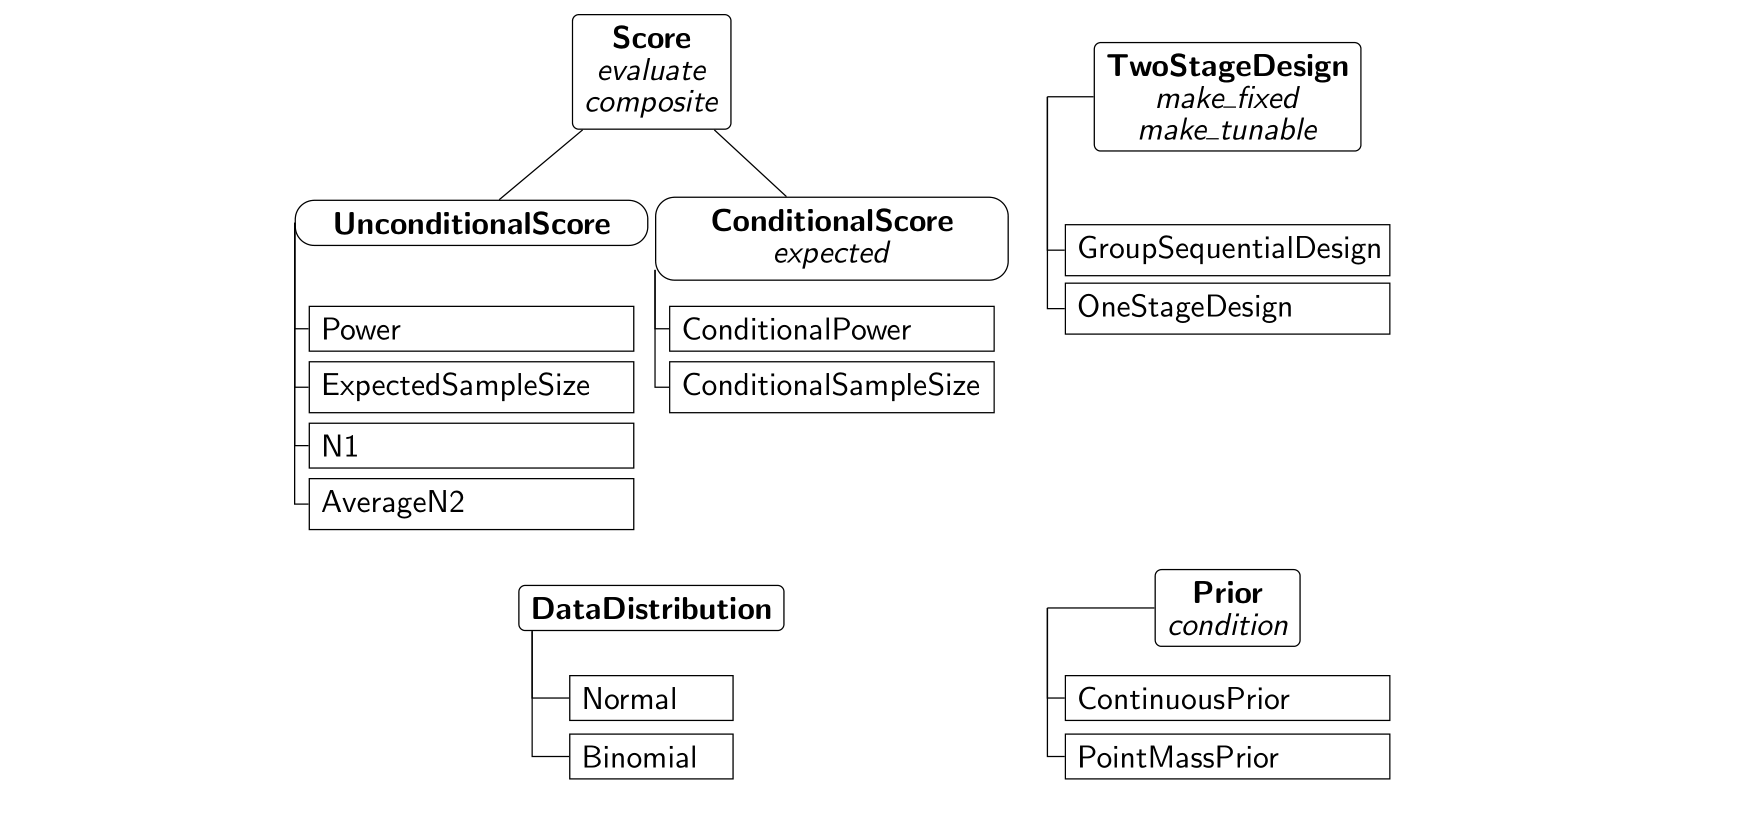
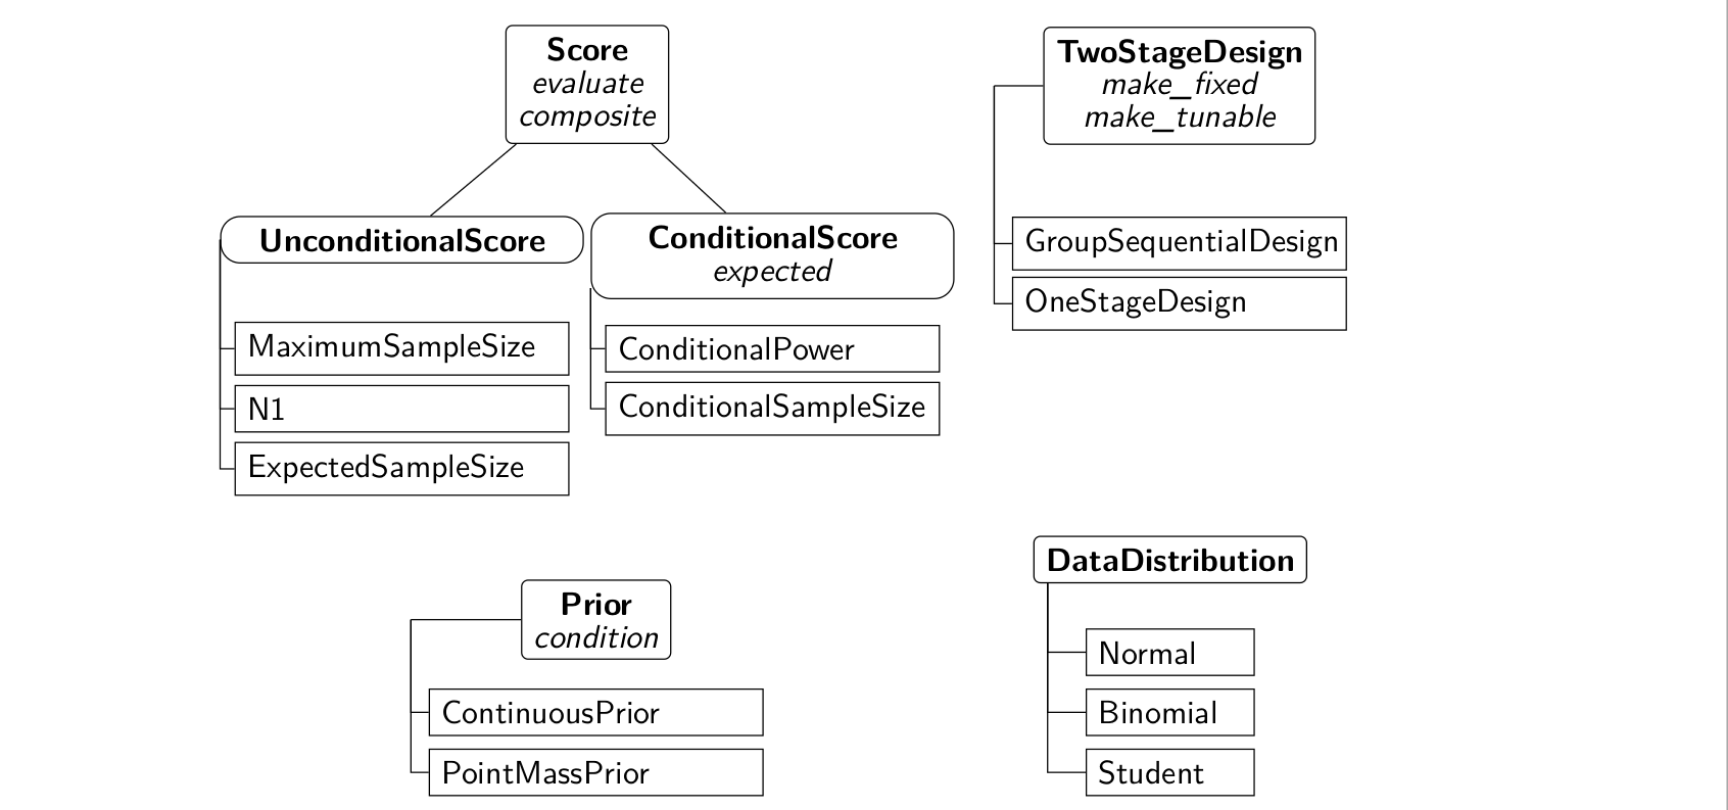
Built site for adoptr: 0.4.2.9000@9309098

diff --git a/articles/adoptr_jss.html b/articles/adoptr_jss.html
@@ -134,7 +134,7 @@
       University of Heidelberg<br><a class="author_email" href="mailto:#"></a><a href="mailto:meinhard.kieser@imbi.uni-heidelberg.de" class="email">meinhard.kieser@imbi.uni-heidelberg.de</a>
       </address>
                   
-            <h4 class="date">2021-05-26</h4>
+            <h4 class="date">2021-05-28</h4>
       
       <small class="dont-index">Source: <a href="https://github.com/kkmann/adoptr/blob/master/vignettes/adoptr_jss.Rmd"><code>vignettes/adoptr_jss.Rmd</code></a></small>
       <div class="hidden name"><code>adoptr_jss.Rmd</code></div>
@@ -151,7 +151,7 @@
 <div id="background" class="section level1">
 <h1 class="hasAnchor">
 <a href="#background" class="anchor"></a>Background</h1>
-<p>Confirmatory clinical trials are conducted in a strictly regulated environment. A key quality criterion put forward by the relevant agencies (<span class="citation">US Food and Drug Administration and others (2010)</span>, <span class="citation">Committee for Medicinal Products for Human Use and others (2007)</span>) for a study that is supposed to provide evidence for the regulatory acceptance of a new drug or treatment is strict type one error rate control. This requirement was often seen as conflicting with the perceived need to make trials more flexible by, e.g., early stopping for futility, group-sequential enrollment, or even adaptive sample size recalculation. An excellent historical review of the development of the field of adaptive clinical trial designs and the struggles along the way is given in <span class="citation">Bauer et al. (2015)</span>.</p>
+<p>Confirmatory clinical trials are conducted in a strictly regulated environment. A key quality criterion put forward by the relevant agencies (<span class="citation">US Food and Drug Administration and others (2019)</span>, <span class="citation">Committee for Medicinal Products for Human Use and others (2007)</span>) for a study that is supposed to provide evidence for the regulatory acceptance of a new drug or treatment is strict type one error rate control. This requirement was often seen as conflicting with the perceived need to make trials more flexible by, e.g., early stopping for futility, group-sequential enrollment, or even adaptive sample size recalculation. An excellent historical review of the development of the field of adaptive clinical trial designs and the struggles along the way is given in <span class="citation">Bauer et al. (2015)</span>.</p>
 <p>In this manuscript, the focus lies exclusively on adaptive two-stage designs with one unblinded interim analysis. Both early stopping for futility and efficacy are allowed and the final sample size as well as the critical value to reject the null hypothesis is chosen in a data-driven way. There is a plethora of methods for modifying the design of an ongoing trial based on interim results without compromising type one error rate control <span class="citation">(Bauer et al. 2015)</span> but the criteria for deciding <em>which</em> adaptation should be performed during an interim analysis and <em>when</em> to perform the interim analysis are still widely based on heuristics. Bauer <em>et al.</em> mention this issue of guiding adaptive decisions at interim in a principled (i.e., ‘optimal’) way by stating that ‘[t]he question might arise if potential decisions made at interim stages might not be better placed to the upfront planning stage.’ Following <span class="citation">Mehta and Pocock (2011)</span>, <span class="citation">Jennison and Turnbull (2015)</span> developed a principle approach to optimal interim sample size modifications, i.e., to conduct the interim decision (conditional on interim results) such that it optimizes an unconditional performance score. Their approach, however, was still restricted unnecessarily. Recently, <span class="citation">Pilz et al. (2019)</span> extended the work to a fully general variational problem where the optimization problem for any given performance score (optionally under further constraints) is solved over both the sample size adaptation function and the critical value function and the time point of the interim decision simultaneously. This approach is an application of ideas which have been put forward in single-arm trials with binary endpoint for several years (<span class="citation">Englert and Kieser (2013)</span>, <span class="citation">Kunzmann and Kieser (2016)</span>, <span class="citation">Kunzmann and Kieser (2020)</span>) to a setting with continuous test statistics. Clearly, by relaxing the problem to continuous sample sizes and test statistics, the theory becomes much more tractable, and important connections between conditional and unconditional optimality can be discussed much easier <span class="citation">(Pilz et al. 2019)</span>.</p>
 <p>A key insight from this recent development is the fact that the true challenge in designing an adaptive trial is less the technical methodology for controlling the type one error rate but rather the choice of the optimality criterion. This issue is much less pressing in single-stage designs since most sensible criteria will be equivalent to minimizing the overall sample size. Thus, in this case, a ‘design’ is often completely specified by given power and type one error rate constraints. For the more complex adaptive designs, however, there are much more sensible criteria (minimize maximal sample size, expected sample size, expected costs, etc.) and the balance between conditional and unconditional properties must be explicitly specified (cf. Section <a href="#sec:Examples">6</a>). This added complexity might be seen as daunting by practitioners, but it is also a chance for tailoring adaptive designs more specifically to a particular situation. The <strong>R</strong>-package <span class="citation">(R Core Team 2019)</span> <strong>adoptr</strong> aims at providing a simple yet customizable interface to specifying a broad class of objective functions and constraints for single- or two-arm, one- or two-stage designs with approximately normally distributed endpoints. The goal of <strong>adoptr</strong> is to enable relatively easy experimentation with different notions of optimality to shift the focus from <em>how</em> to optimize to <em>what</em> to optimize.</p>
 <p>In the following, we first give a definition of the problem setting addressed in <strong>adoptr</strong> and the technicalities of translating the underlying variational problem to a simple multivariate optimization problem before motivating the need for an <strong>R</strong>-package. We then present the core functionality of <strong>adoptr</strong> before addressing the issue of facilitating validation of open-source software in a regulated environment and discussing potential future work on <strong>adoptr</strong>.</p>
@@ -211,9 +211,9 @@
 <h1 class="hasAnchor">
 <a href="#sec:structure" class="anchor"></a>Adoptr’s structure</h1>
 <p>The package <strong>adoptr</strong> is based on <strong>R</strong>’s S4 class system. This allows to use multiple dispatch on the classes of multiple arguments to a method. In this section, the central components of <strong>adoptr</strong> are described briefly. Figure @ref(fig:class-diagram) gives a structural overview of the main classes in <strong>adoptr</strong>.</p>
-<p>To compute optimal designs, an object of class <code>UnconditionalScore</code> must be defined as objective criterion. <strong>adoptr</strong> distinguishes between <code>ConditionalScore</code>s and <code>UnconditionalScore</code>s (cf. Section <a href="#sec:setting">2</a>). All <code>Score</code>s can be evaluated using the method <code>evaluate</code>. For unconditional scores, this method only requires a <code>Score</code> object and a <code>TwoStageDesign</code> object, for conditional scores (like conditional power), it also requires the interim outcome <span class="math inline">\(x_1\)</span>. Note that any <code>ConditionalScore</code> <span class="math inline">\(S(\mathcal{D}|X_1=x_1)\)</span> can be converted to an <code>UnconditionalScore</code> <span class="math inline">\(S(\mathcal{D}) = \boldsymbol{E}\big[S(\mathcal{D}|X_1)\big]\)</span> using the method <code>expected</code>. The two most widely used conditional scores are pre-implemented as <code>ConditionalPower</code> and <code>ConditionalSampleSize</code>. Their unconditional counterparts are <code>Power</code> and <code>ExpectedSampleSize</code>. Further predefined unconditional scores are <code>AverageN2</code>, evaluating the average of the stage-two sample size (improper prior) and <code>N1</code> measuring the first-stage sample size. These scores may be used for regularization if variable stage-two sample sizes or a high stage-one sample size are to be penalized. Users are free to define their own <code>Score</code>s (cf. the vignette ‘Defining New Scores’ <span class="citation">(Kunzmann and Pilz 2020)</span>). Moreover, different <code>Score</code>s can be composed to a single one by the function <code>composite</code> (cf. Section <a href="#sec:utility_maximization">6.3</a>). Both conditional and unconditional scores can also be used to define constraints - the most common case being constraints for power and maximal type one error rate. The function <code>minimize</code> takes an unconditional score as objective and a set of constraints and optimizes the design parameters.</p>
+<p>To compute optimal designs, an object of class <code>UnconditionalScore</code> must be defined as objective criterion. <strong>adoptr</strong> distinguishes between <code>ConditionalScore</code>s and <code>UnconditionalScore</code>s (cf. Section <a href="#sec:setting">2</a>). All <code>Score</code>s can be evaluated using the method <code>evaluate</code>. For unconditional scores, this method only requires a <code>Score</code> object and a <code>TwoStageDesign</code> object, for conditional scores (like conditional power), it also requires the interim outcome <span class="math inline">\(x_1\)</span>. Note that any <code>ConditionalScore</code> <span class="math inline">\(S(\mathcal{D}|X_1=x_1)\)</span> can be converted to an <code>UnconditionalScore</code> <span class="math inline">\(S(\mathcal{D}) = \boldsymbol{E}\big[S(\mathcal{D}|X_1)\big]\)</span> using the method <code>expected</code>. The two most widely used conditional scores are pre-implemented as <code>ConditionalPower</code> and <code>ConditionalSampleSize</code>. Their unconditional counterparts are <code>Power</code> and <code>ExpectedSampleSize</code>. Further predefined unconditional scores are <code>MaximumSampleSize</code>, evaluating the maximum sample size, <code>N1</code>, measuring the first-stage sample size, and <code>AverageN2</code>, evaluating the average of the stage-two sample size (improper prior). These scores may be used for regularization if variable stage-two sample sizes or a high stage-one sample size are to be penalized. Users are free to define their own <code>Score</code>s (cf. the vignette ‘Defining New Scores’ <span class="citation">(Kunzmann and Pilz 2020)</span>). Moreover, different <code>Score</code>s can be composed to a single one by the function <code>composite</code> (cf. Section <a href="#sec:utility_maximization">6.3</a>). Both conditional and unconditional scores can also be used to define constraints - the most common case being constraints for power and maximal type one error rate. The function <code>minimize</code> takes an unconditional score as objective and a set of constraints and optimizes the design parameters.</p>
 <p>In <strong>adoptr</strong>, different kinds of designs are implemented. The most frequently applied case is a <code>TwoStageDesign</code>, i.e., a design with one interim analysis and a sample size function that varies with the interim test statistic. Another option is the subclass <code>GroupSequentialDesign</code> which restricts the sample size function on the continuation region to a single number, i.e., <span class="math inline">\({n_2(x_1) = n_2\ \forall x_1\in[\,c_1^f, c_1^e\,]}\)</span>. Additionally, <strong>adoptr</strong> supports the computation of optimal <code>OneStageDesign</code>s, i.e., designs without an interim analysis. Technically, one-stage designs are implemented as subclasses of <code>TwoStageDesign</code> since they can be viewed as the limiting case for <span class="math inline">\(n_2\equiv0\)</span> and <span class="math inline">\(c_1^f=c_1^e\)</span>. Hence, all methods that are implemented for <code>TwoStageDesign</code>s also work for <code>GroupSequentialDesign</code>s and <code>OneStageDesign</code>s. Users can chose to keep some elements of a design fixed during optimization using the methods <code>make_fixed</code> (cf. Section <a href="#sec:make_fixed">6.5</a>).</p>
-<p>The joint data distribution in <strong>adoptr</strong> consists of two elements. The distribution of the test statistic is specified by an object of class <code>DataDistribution</code>. Currently, the two options <code>Normal</code> and <code>Binomial</code> are implemented. The logical variable <code>two_armed</code> allows the differentiation between one- and two-armed trials. Furthermore, <strong>adoptr</strong> supports prior distributions on the effect size. These can be <code>PointMassPrior</code>s (cf. Section <a href="#sec:standard_case">6.1</a>) as well as <code>ContinuousPrior</code>s (cf. Section <a href="#sec:uncertainty">6.2</a>).</p>
+<p>The joint data distribution in <strong>adoptr</strong> consists of two elements. The distribution of the test statistic is specified by an object of class <code>DataDistribution</code>. Currently, the three options <code>Normal</code>, <code>Binomial</code>, and <code>Student</code> are implemented. The logical variable <code>two_armed</code> allows the differentiation between one- and two-armed trials. Furthermore, <strong>adoptr</strong> supports prior distributions on the effect size. These can be <code>PointMassPrior</code>s (cf. Section <a href="#sec:standard_case">6.1</a>) as well as <code>ContinuousPrior</code>s (cf. Section <a href="#sec:uncertainty">6.2</a>).</p>
 <p>In the following section, more hands on examples demonstrate the capabilities of <strong>adoptr</strong> and its syntax.</p>
 </div>
 <div id="sec:Examples" class="section level1">
@@ -229,7 +229,8 @@
 <pre class="text"><code>R&gt; null        &lt;- PointMassPrior(theta = .0, mass = 1.0)
 R&gt; alternative &lt;- PointMassPrior(theta = .3, mass = 1.0)
 R&gt; power       &lt;- Power(dist = datadist, prior = alternative)
-R&gt; toer        &lt;- Power(dist = datadist, prior = null)</code></pre>
+R&gt; toer        &lt;- Power(dist = datadist, prior = null)
+R&gt; mss         &lt;- MaximumSampleSize()</code></pre>
 <p>A <code>Power</code> score requires the data distribution and the prior to be specified. For this example, we choose <code>PointMassPrior</code>s with the entire probability mass of <span class="math inline">\(1\)</span> on a single point, the null hypothesis <span class="math inline">\(\theta = 0\)</span> to compute the type one error rate, and the alternative hypothesis <span class="math inline">\(\theta = 0.3\)</span> to compute the power. The objective function is the expected sample size under the alternative.</p>
 <pre class="text"><code>R&gt; ess &lt;- ExpectedSampleSize(dist = datadist, prior = alternative)</code></pre>
 <p>Since <strong>adoptr</strong> internally relies on the COBYLA implementation of <strong>nloptr</strong>, an initial design is required. A heuristic initial choice is provided by the function <code>get_initial_design</code>. It is based on a fixed design that fulfills constraints on type one error rate and power. The type of the design (two-stage, group-sequential, or one-stage) and the data distribution have to be defined. For the Gaussian quadrature used during optimization, one also has to specify the order of the integration rule, i.e., the number of pivot points between early stopping for futility and early stopping for efficacy. In practice, order 7 turned out to be sufficiently flexible to obtain valid results (data not shown).</p>
@@ -268,13 +269,15 @@ R&gt; summary(opt1$design, "Power" = power, "ESS" = ess, "CP" = cp)</code></pre>
 \boldsymbol{Pr}_\theta\big[X_2&gt;c_2(X_1)\big] \, \Big| \, \theta \geq 0.1 \Big]
 \]</span> which is the expected power given a relevant effect (here we define the minimal relevant effect as <span class="math inline">\(0.1\)</span>). This score can be defined in <strong>adoptr</strong> by first conditioning the prior.</p>
 <pre class="text"><code>R&gt; epower &lt;- Power(dist = datadist, prior = condition(prior, c(.1, 1)))</code></pre>
-<p>The optimal design is then given by</p>
+<p>The optimal design under the point prior only achieves an expected power of</p>
+<pre class="text"><code>R&gt; evaluate(epower, opt1$design)</code></pre>
+<p>The optimal design under the truncated normal prior fulfilling the expected power constraint is then given by</p>
 <pre class="text"><code>R&gt; opt2 &lt;- minimize(ess, subject_to(epower &gt;= 0.9, toer &lt;= 0.025),
 +                   initial_design,
 +                   opts = list(algorithm = "NLOPT_LN_COBYLA",
 +                               xtol_rel = 1e-5, maxeval = 20000))</code></pre>
 <p>Note that the increased complexity of the problem requires a larger maximal number of iterations for the underlying optimization procedure. <strong>adoptr</strong> exposes the <strong>nloptr</strong> options via the argument <code>opts</code>. In cases where the maximal number of iterations is exhausted, a warning is thrown.</p>
-<p>The expected sample size under the prior of the obtained optimal design equals . This points out the increased uncertainty on <span class="math inline">\(\theta\)</span> since the expected sample size under the prior of the optimal design from Section <a href="#sec:standard_case">6.1</a> amounts to a lower value of .</p>
+<p>The expected sample size under the prior of the obtained optimal design equals . This shows that an increased uncertainty on <span class="math inline">\(\theta\)</span> requires larger sample sizes to fulfill the expected power constraint since the expected sample size under the continuous prior considered in this section of the optimal design derived under a point alternative (see Section <a href="#sec:standard_case">6.1</a>) is only .</p>
 </div>
 <div id="sec:utility_maximization" class="section level2">
 <h2 class="hasAnchor">
@@ -334,7 +337,7 @@ R&gt; initial_design     &lt;- make_fixed(initial_design, n1, c1f)</code></pre>
 <li>
 <em>Unit testing:</em> <strong>adoptr</strong> implements an extensive test suite using the package <strong>testthat</strong> (<span class="citation">Wickham, R Studio, and R Core Team (2018)</span>, <span class="citation">Wickham (2011)</span>) which allows spotting new errors early during development and localizing them quickly. Together with continuous integration (cf. below), this helps to improve quality and speeds up the development process.</li>
 <li>
-<em>Continuous Integration / Continuous Deployment:</em> <strong>adoptr</strong> makes extensive use of the continuous integration and deployment services of Travis-CI <span class="citation">(Travis CI GmbH 2020)</span>. Each new commit on the public GitHub.com repository is immediately run through the automated testing pipeline using the Travis-CI build service. Merges to the master branch are only possible after tests were passed successfully and a contributor reviewed and approved the changes (‘branch protection system’). Continuous deployment allows automatically updating code-coverage statistics (cf. below) and up-to-date online documentation (cf. below).</li>
+<em>Continuous Integration / Continuous Deployment:</em> <strong>adoptr</strong> makes extensive use of the continuous integration and deployment services GitHub Actions <span class="citation">(GitHub.com 2021)</span>. Each new commit on the public GitHub.com repository is immediately run through the automated testing pipeline. Merges to the master branch are only possible after tests were passed successfully and a contributor reviewed and approved the changes (‘branch protection system’). Continuous deployment allows automatically updating code-coverage statistics (cf. below) and up-to-date online documentation (cf. below).</li>
 <li>
 <em>Coverage analyses:</em> To document the extent to which the test suite covers the package code, <strong>adoptr</strong> relies on the codecov <span class="citation">(Codecov LLC 2020)</span> online service in conjunction with the <strong>covr</strong> package <span class="citation">(Hester 2019)</span>. It provides statistics on the proportion of lines visited at least once during testing (currently 100%) and enables easy online publication of the results.</li>
 <li>
@@ -386,6 +389,9 @@ R&gt; initial_design     &lt;- make_fixed(initial_design, n1, c1f)</code></pre>
 </div>
 <div id="ref-Spline">
 <p>Fritsch, F. N., and R. E. Carlson. 1980. “Monotone Piecewise Cubic Interpolation.” <em>SIAM Journal on Numerical Analysis</em> 17 (2): 238–46. <a href="https://doi.org/10.1137/0717021">https://doi.org/10.1137/0717021</a>.</p>
+</div>
+<div id="ref-ghactions">
+<p>GitHub.com. 2021. <em>GitHub Actions</em>. <a href="https://docs.github.com/en/actions/">https://docs.github.com/en/actions/</a>.</p>
 </div>
 <div id="ref-AGSDest">
 <p>Hack, N., W. Brannath, and M. Brueckner. 2019. <em>AGSDest: Estimation in Adaptive Group Sequential Trials</em>. <a href="https://CRAN.R-project.org/package=AGSDest">https://CRAN.R-project.org/package=AGSDest</a>.</p>
@@ -453,9 +459,6 @@ R&gt; initial_design     &lt;- make_fixed(initial_design, n1, c1f)</code></pre>
 <div id="ref-r-fda">
 <p>The R Foundation for Statistical Computing. 2013. “R: Regulatory Compliance and Validation Issues - a Guidance Document for the Use of R in Regulated Clinical Trial Environments.” <a href="https://www.r-project.org/doc/R-FDA.pdf">https://www.r-project.org/doc/R-FDA.pdf</a>.</p>
 </div>
-<div id="ref-travis">
-<p>Travis CI GmbH. 2020. <em>Travis-Ci</em>. <a href="https://travis-ci.org/">https://travis-ci.org/</a>.</p>
-</div>
 <div id="ref-Tymofyeyev2014">
 <p>Tymofyeyev, Y. 2014. “A Review of Available Software and Capabilities for Adaptive Designs.” In <em>Practical Considerations for Adaptive Trial Design and Implementation</em>, 139–55. Springer-Verlag New York. <a href="https://doi.org/10.1007/978-1-4939-1100-4_8">https://doi.org/10.1007/978-1-4939-1100-4_8</a>.</p>
 </div>
@@ -463,7 +466,7 @@ R&gt; initial_design     &lt;- make_fixed(initial_design, n1, c1f)</code></pre>
 <p>US Food and Drug Administration and others. 2003. “Guidance for Industry Part 11, Electronic Records; Electronic Signatures — Scope and Application.” <em>US Food Drug Admin, Rockville</em>. <a href="https://www.fda.gov/media/75414/download">https://www.fda.gov/media/75414/download</a>.</p>
 </div>
 <div id="ref-FDA">
-<p>———. 2010. “Draft Guidance for Industry: Adaptive Design Clinical Trials for Drugs and Biologics.” <em>US Food Drug Admin, Rockville</em>. <a href="https://www.fda.gov/media/78495/download">https://www.fda.gov/media/78495/download</a>.</p>
+<p>US Food and Drug Administration, and others. 2019. <em>Adaptive Designs for Clinical Trials of Drugs and Biologics - Guidance for Industry</em>. <a href="https://www.fda.gov/media/78495/download">https://www.fda.gov/media/78495/download</a>.</p>
 </div>
 <div id="ref-adaptTest">
 <p>Vandemeulebroecke, M. 2009. <em>AdaptTest: Adaptive Two-Stage Tests</em>. <a href="https://CRAN.R-project.org/package=adaptTest">https://CRAN.R-project.org/package=adaptTest</a>.</p>

diff --git a/articles/adoptr.html b/articles/adoptr.html
@@ -114,7 +114,7 @@
     <div class="page-header toc-ignore">
       <h1 data-toc-skip>Get started with adoptr</h1>
             
-            <h4 class="date">2021-05-26</h4>
+            <h4 class="date">2021-05-28</h4>
       
       <small class="dont-index">Source: <a href="https://github.com/kkmann/adoptr/blob/master/vignettes/adoptr.Rmd"><code>vignettes/adoptr.Rmd</code></a></small>
       <div class="hidden name"><code>adoptr.Rmd</code></div>
